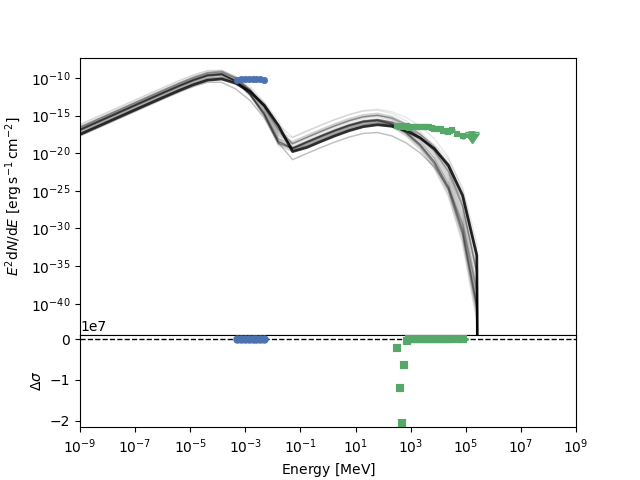
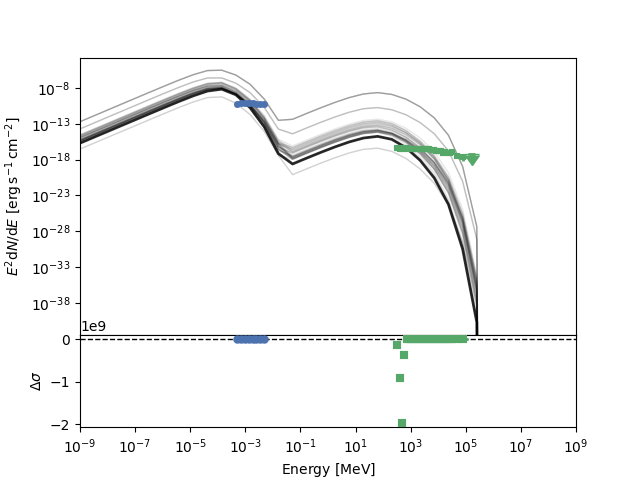
Updating the sed fit results and chain plots

diff --git a/fitmodel.py b/fitmodel.py
@@ -192,7 +192,7 @@ class Fitmodel:
 
         p0 = imf.pars
 
-        nwalkers = 100
+        nwalkers = 20
         nparams = len(p0)
         if nparams > nwalkers:
             raise RandomWalkError("The number of walkers should be atleast"
@@ -206,22 +206,22 @@ class Fitmodel:
                                          model=self.model_func,
                                          prior=self.prior_func,
                                          nwalkers=nwalkers,
-                                         nburn=50,
-                                         nrun=20,
+                                         nburn=16,
+                                         nrun=16,
                                          threads=4,
                                          prefit=False,
                                          data_sed=True,
                                          interactive=False)
 
-        naima.save_results_table('./results_ssc_fit/data_fit_table_delete', sampler)
+        naima.save_results_table('./results_ssc_fit/data_fit_table', sampler)
         fit_sed = naima.plot_fit(sampler, n_samples=50, e_range=[
-                             1e-3 * u.eV, 1e15 * u.eV], e_npoints=self.e_npoints)
-        fit_sed.savefig("./results_ssc_fit/likelihoodfitresult_sed_delete.png")
+                             1e-3 * u.eV, 1e15 * u.eV], e_npoopeints=self.e_npoints)
+        fit_sed.savefig("./results_ssc_fit/likelihoodfitresult_sed.png")
 
         labels = sampler.labels
         for index, name in enumerate(labels):
             chain = naima.plot_chain(sampler, p=index)
-            chain.savefig("./results_ssc_fit/plot_chain/{}_chain_delete.png".format(name))
+            chain.savefig("./results_ssc_fit/plot_chain/{}_chain.png".format(name))
 
     def main(self):
         '''
